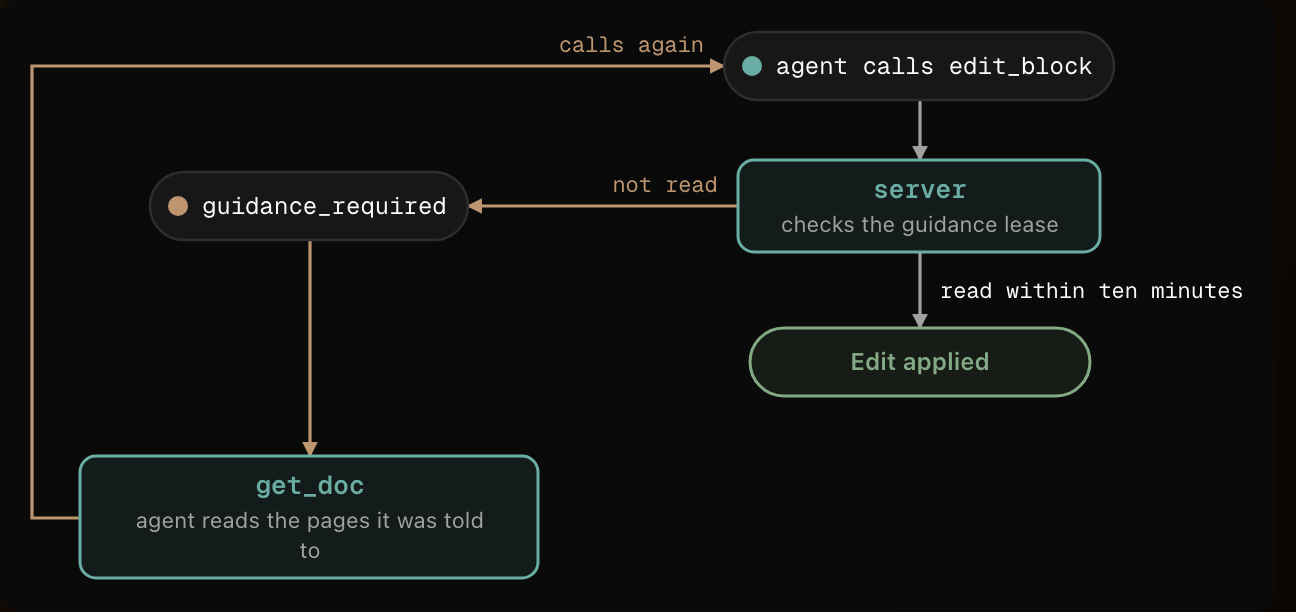
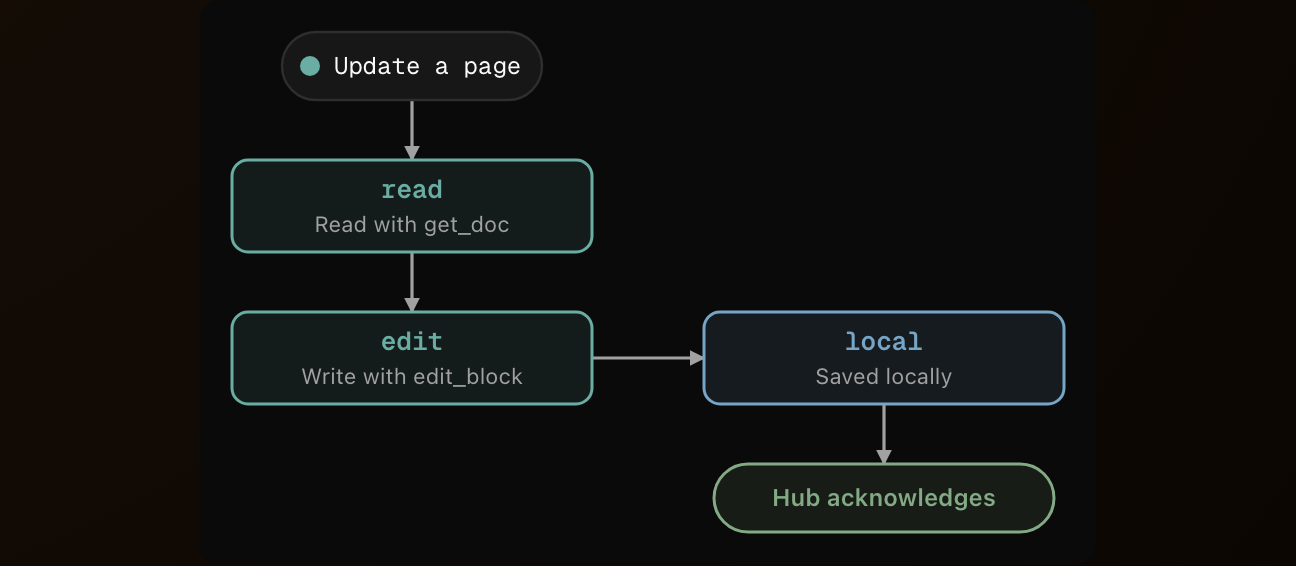
Replace guidance write gate with startup pointers (#2175)
* Replace guidance write gate with startup pointers

* Remove obsolete guidance requirement from CLI data help

* docs(site): recapture centered Ablauf examples

diff --git a/pages/docs/custom-markdown.html b/pages/docs/custom-markdown.html
@@ -17,38 +17,34 @@
   <p>Flow diagrams are the first thing a team wants in a design doc, and Mermaid gets half of it right: a few lines of text an agent can write, diff and review. The other half, layout, is all algorithm, so one added node reshuffles the whole chart and nobody has a handle to grab. <a href="https://github.com/uberblick-ai/ablauf">Ablauf</a> keeps the text and gives the layout to the author: the source names the columns, puts each node in a row, and says which side an edge leaves and enters. The renderer measures the text, draws in one house style for light and dark, and reports every crossing or overlap with a line number. It never moves anything, so an agent gets to a clean diagram from the text and the diagnostics alone, without looking at the picture. The format is early and lives in its own repository; the block in Uberblick follows it. Since 0.4.5 Mermaid is gone, so a <code>mermaid</code> fence is an ordinary code block with that language and is never drawn.</p>
   <div class="tabs ex"><div class="tablist" role="tablist" aria-label="ablauf example"><button role="tab" id="t-ablauf-v" aria-selected="true" aria-controls="p-ablauf-v" type="button">Displayed</button><button role="tab" id="t-ablauf-m" aria-selected="false" aria-controls="p-ablauf-m" type="button">Markdown</button><button class="copy" type="button" data-copy="```ablauf
 flow v0
-columns rework main
+columns agent workspace
 
-pill edit_block col=main tone=agent &quot;agent calls edit_block&quot;
-box server &quot;checks the guidance lease&quot;
-end applied &quot;Edit applied&quot;
+pill change col=agent tone=agent &quot;Update a page&quot;
+box read col=agent tone=agent &quot;Read with get_doc&quot;
+box edit col=agent tone=agent &quot;Write with edit_block&quot;
+box local col=workspace row=edit tone=system &quot;Saved locally&quot;
+end synced col=workspace &quot;Hub acknowledges&quot;
 
-pill guidance_required col=rework row=server tone=rework
-box get_doc &quot;agent reads the pages it was told to&quot;
-
-edit_block --&gt; server
-server --&gt; applied : read within ten minutes
-server --&gt; guidance_required tone=rework : not read
-guidance_required --&gt; get_doc tone=rework
-get_doc --&gt; edit_block tone=rework from=left to=left label=end : calls again
+change --&gt; read
+read --&gt; edit
+edit --&gt; local
+local --&gt; synced
 ```">Copy</button></div>
-  <div class="panel" role="tabpanel" id="p-ablauf-v" aria-labelledby="t-ablauf-v"><img class="l" src="/img/blocks/ablauf-light.png" alt="The Ablauf block as the editor shows it: an agent calls edit_block, the server checks the guidance lease, an edit applied when the pages were read within ten minutes, otherwise guidance_required, the agent reads the pages with get_doc and calls again" loading="lazy"><img class="d" src="/img/blocks/ablauf-dark.png" alt="" loading="lazy"></div>
+  <div class="panel" role="tabpanel" id="p-ablauf-v" aria-labelledby="t-ablauf-v"><img class="l" src="/img/blocks/ablauf-light.png" alt="The Ablauf block as the editor shows it: an agent reads a page with get_doc and writes with edit_block; the change is saved locally and the hub acknowledges it" loading="lazy"><img class="d" src="/img/blocks/ablauf-dark.png" alt="" loading="lazy"></div>
   <div class="panel" role="tabpanel" id="p-ablauf-m" aria-labelledby="t-ablauf-m" hidden><pre>```ablauf
 flow v0
-columns rework main
+columns agent workspace
 
-pill edit_block col=main tone=agent &quot;agent calls edit_block&quot;
-box server &quot;checks the guidance lease&quot;
-end applied &quot;Edit applied&quot;
+pill change col=agent tone=agent &quot;Update a page&quot;
+box read col=agent tone=agent &quot;Read with get_doc&quot;
+box edit col=agent tone=agent &quot;Write with edit_block&quot;
+box local col=workspace row=edit tone=system &quot;Saved locally&quot;
+end synced col=workspace &quot;Hub acknowledges&quot;
 
-pill guidance_required col=rework row=server tone=rework
-box get_doc &quot;agent reads the pages it was told to&quot;
-
-edit_block --&gt; server
-server --&gt; applied : read within ten minutes
-server --&gt; guidance_required tone=rework : not read
-guidance_required --&gt; get_doc tone=rework
-get_doc --&gt; edit_block tone=rework from=left to=left label=end : calls again
+change --&gt; read
+read --&gt; edit
+edit --&gt; local
+local --&gt; synced
 ```</pre></div></div>
   </section>
 

diff --git a/pages/index.html b/pages/index.html
@@ -60,16 +60,16 @@
 </section>
 
 <section class="blk" id="mcp">
-<div class="blk-h"><h2>An opinionated MCP: agents read before they write.</h2><a href="/docs/agents">Agents over MCP</a></div>
-<p class="blk-intro">Tag the pages that matter as guidance. The server refuses every write from an agent that has not read them, and tells it which ones. No prompt engineering, no hoping.</p>
-<div class="flow" role="img" aria-label="An agent calls edit_block; the server refuses with guidance_required and lists the unread pages; the agent reads them with get_doc; the write is accepted for ten minutes of edits.">
-  <div class="step"><span class="k">1 · agent</span><b>Calls <code>edit_block</code></b><span>on a page in the workspace</span></div>
+<div class="blk-h"><h2>Your guidance starts each agent session.</h2><a href="/docs/agents">Agents over MCP</a></div>
+<p class="blk-intro">Tag the pages that matter as guidance. When agents connect, the server points them to guidance pages and asks them to read the ones that apply before their first write. Your workspace's conventions travel with its documents.</p>
+<div class="flow" role="img" aria-label="The server names guidance pages when an agent connects; the agent reads the ones that apply with get_doc, then calls edit_block; the change is saved locally.">
+  <div class="step"><span class="k">1 · server</span><b>Names guidance pages</b><span>when the agent connects</span></div>
   <span class="arr" aria-hidden="true"></span>
-  <div class="step no"><span class="k">2 · server</span><b>Refuses: <code>guidance_required</code></b><span>unread: Product principles, Web UI: typography</span></div>
+  <div class="step"><span class="k">2 · agent</span><b>Reads with <code>get_doc</code></b><span>the pages that apply to this change</span></div>
   <span class="arr" aria-hidden="true"></span>
-  <div class="step"><span class="k">3 · agent</span><b>Reads both with <code>get_doc</code></b><span>the same pages people pinned</span></div>
+  <div class="step"><span class="k">3 · agent</span><b>Calls <code>edit_block</code></b><span>with the workspace's context</span></div>
   <span class="arr" aria-hidden="true"></span>
-  <div class="step ok"><span class="k">4 · server</span><b>Accepts the write</b><span>and every write for ten minutes</span></div>
+  <div class="step ok"><span class="k">4 · workspace</span><b>Saves the change</b><span>locally, then syncs with the hub</span></div>
 </div>
 </section>
 
